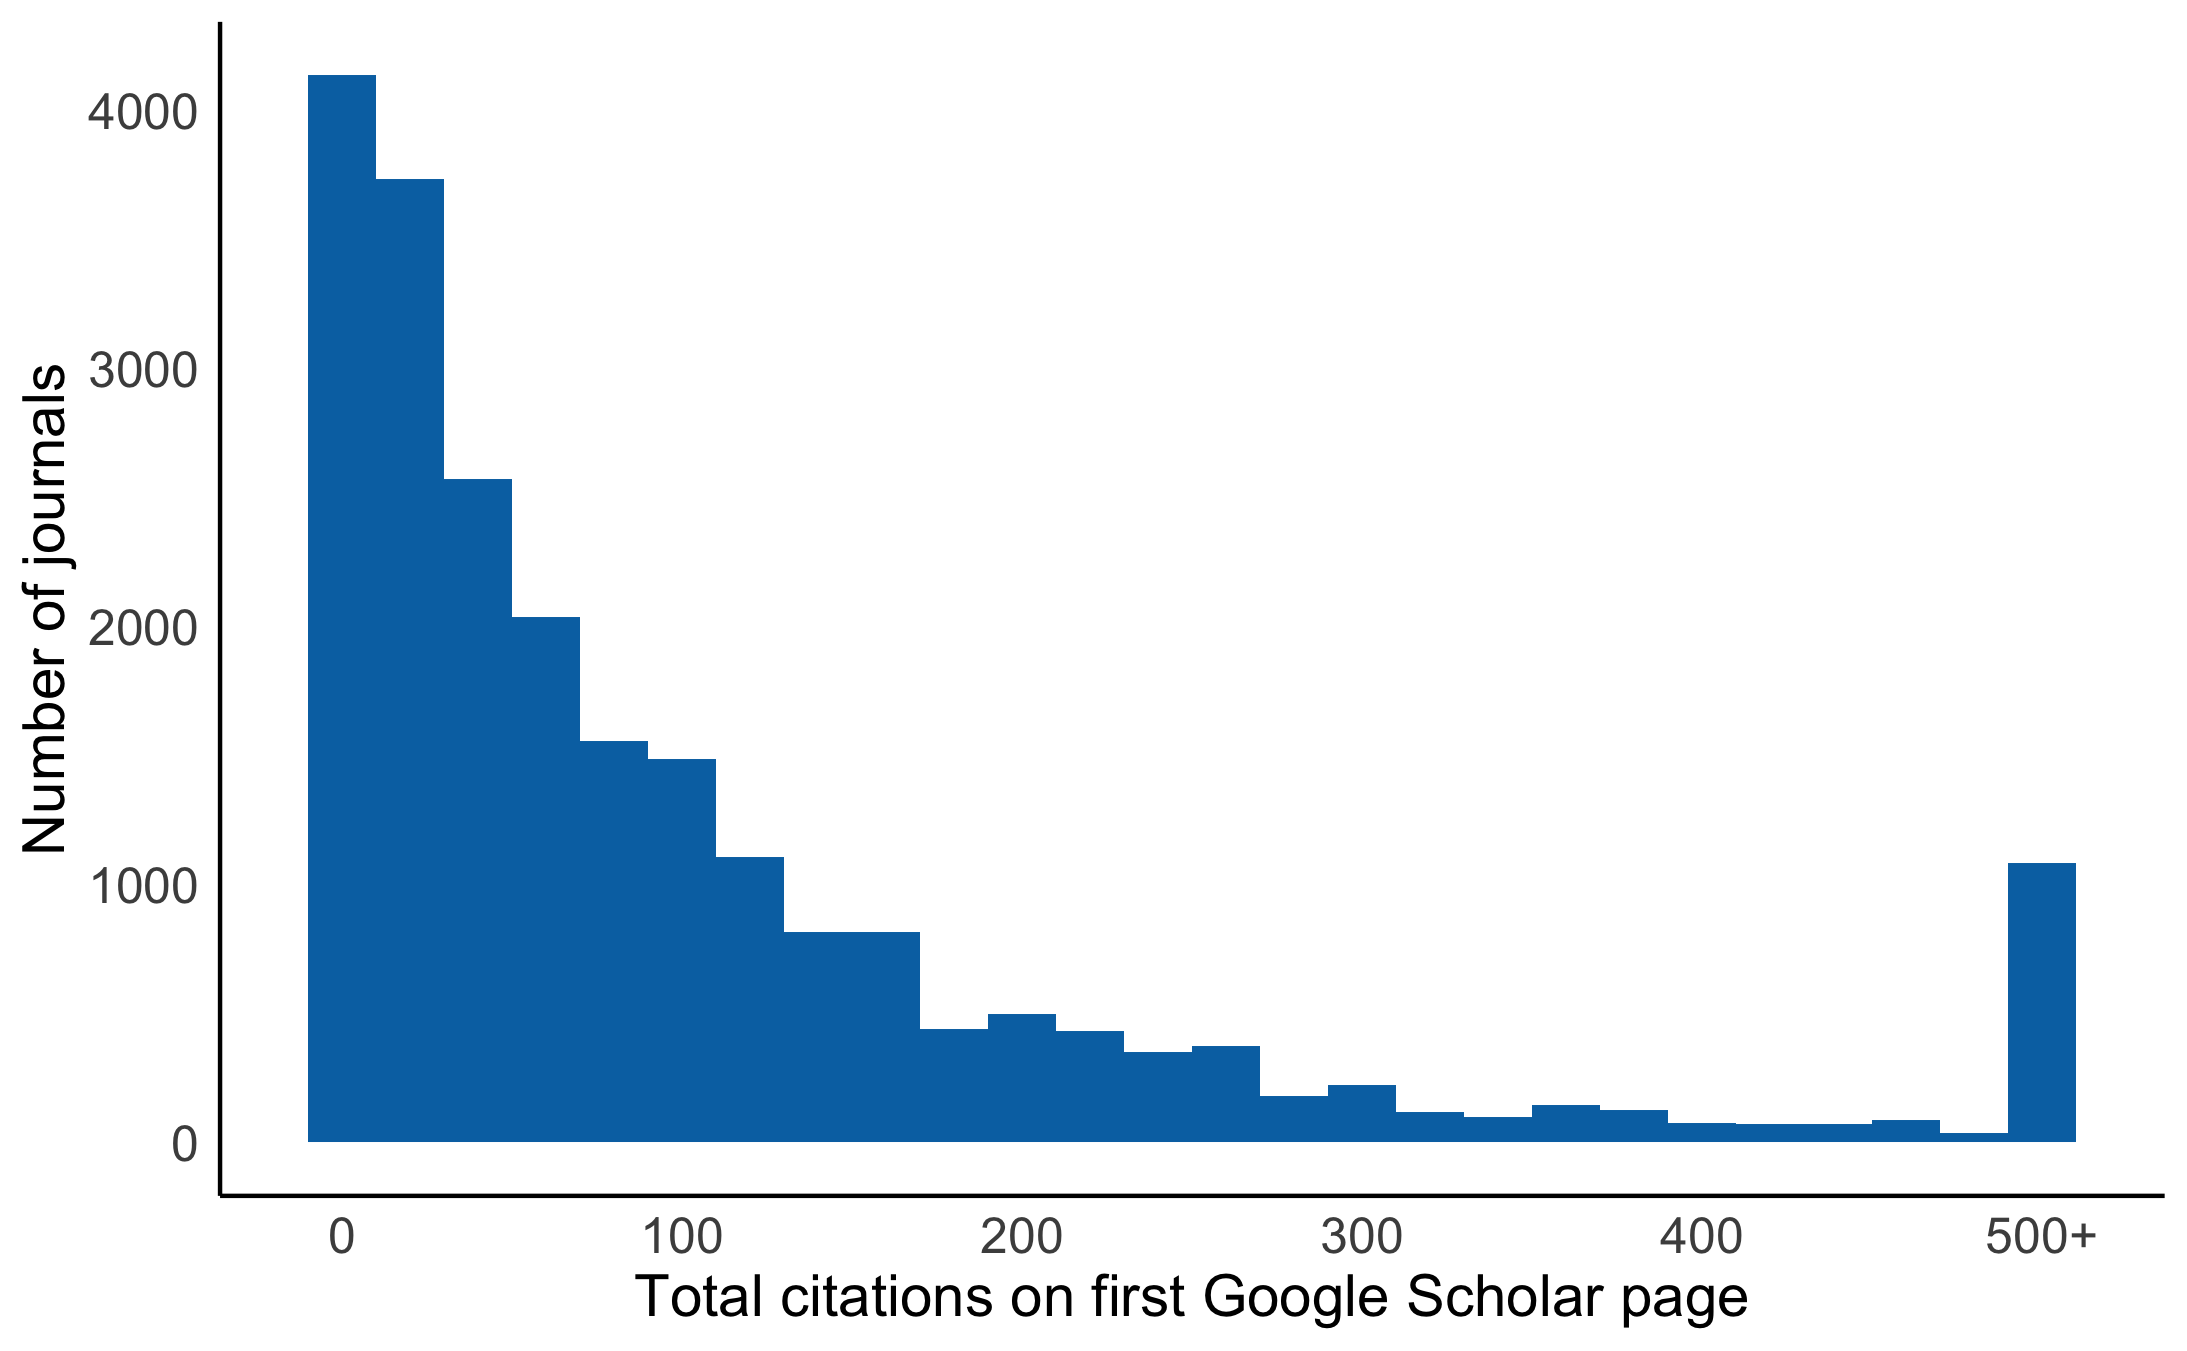
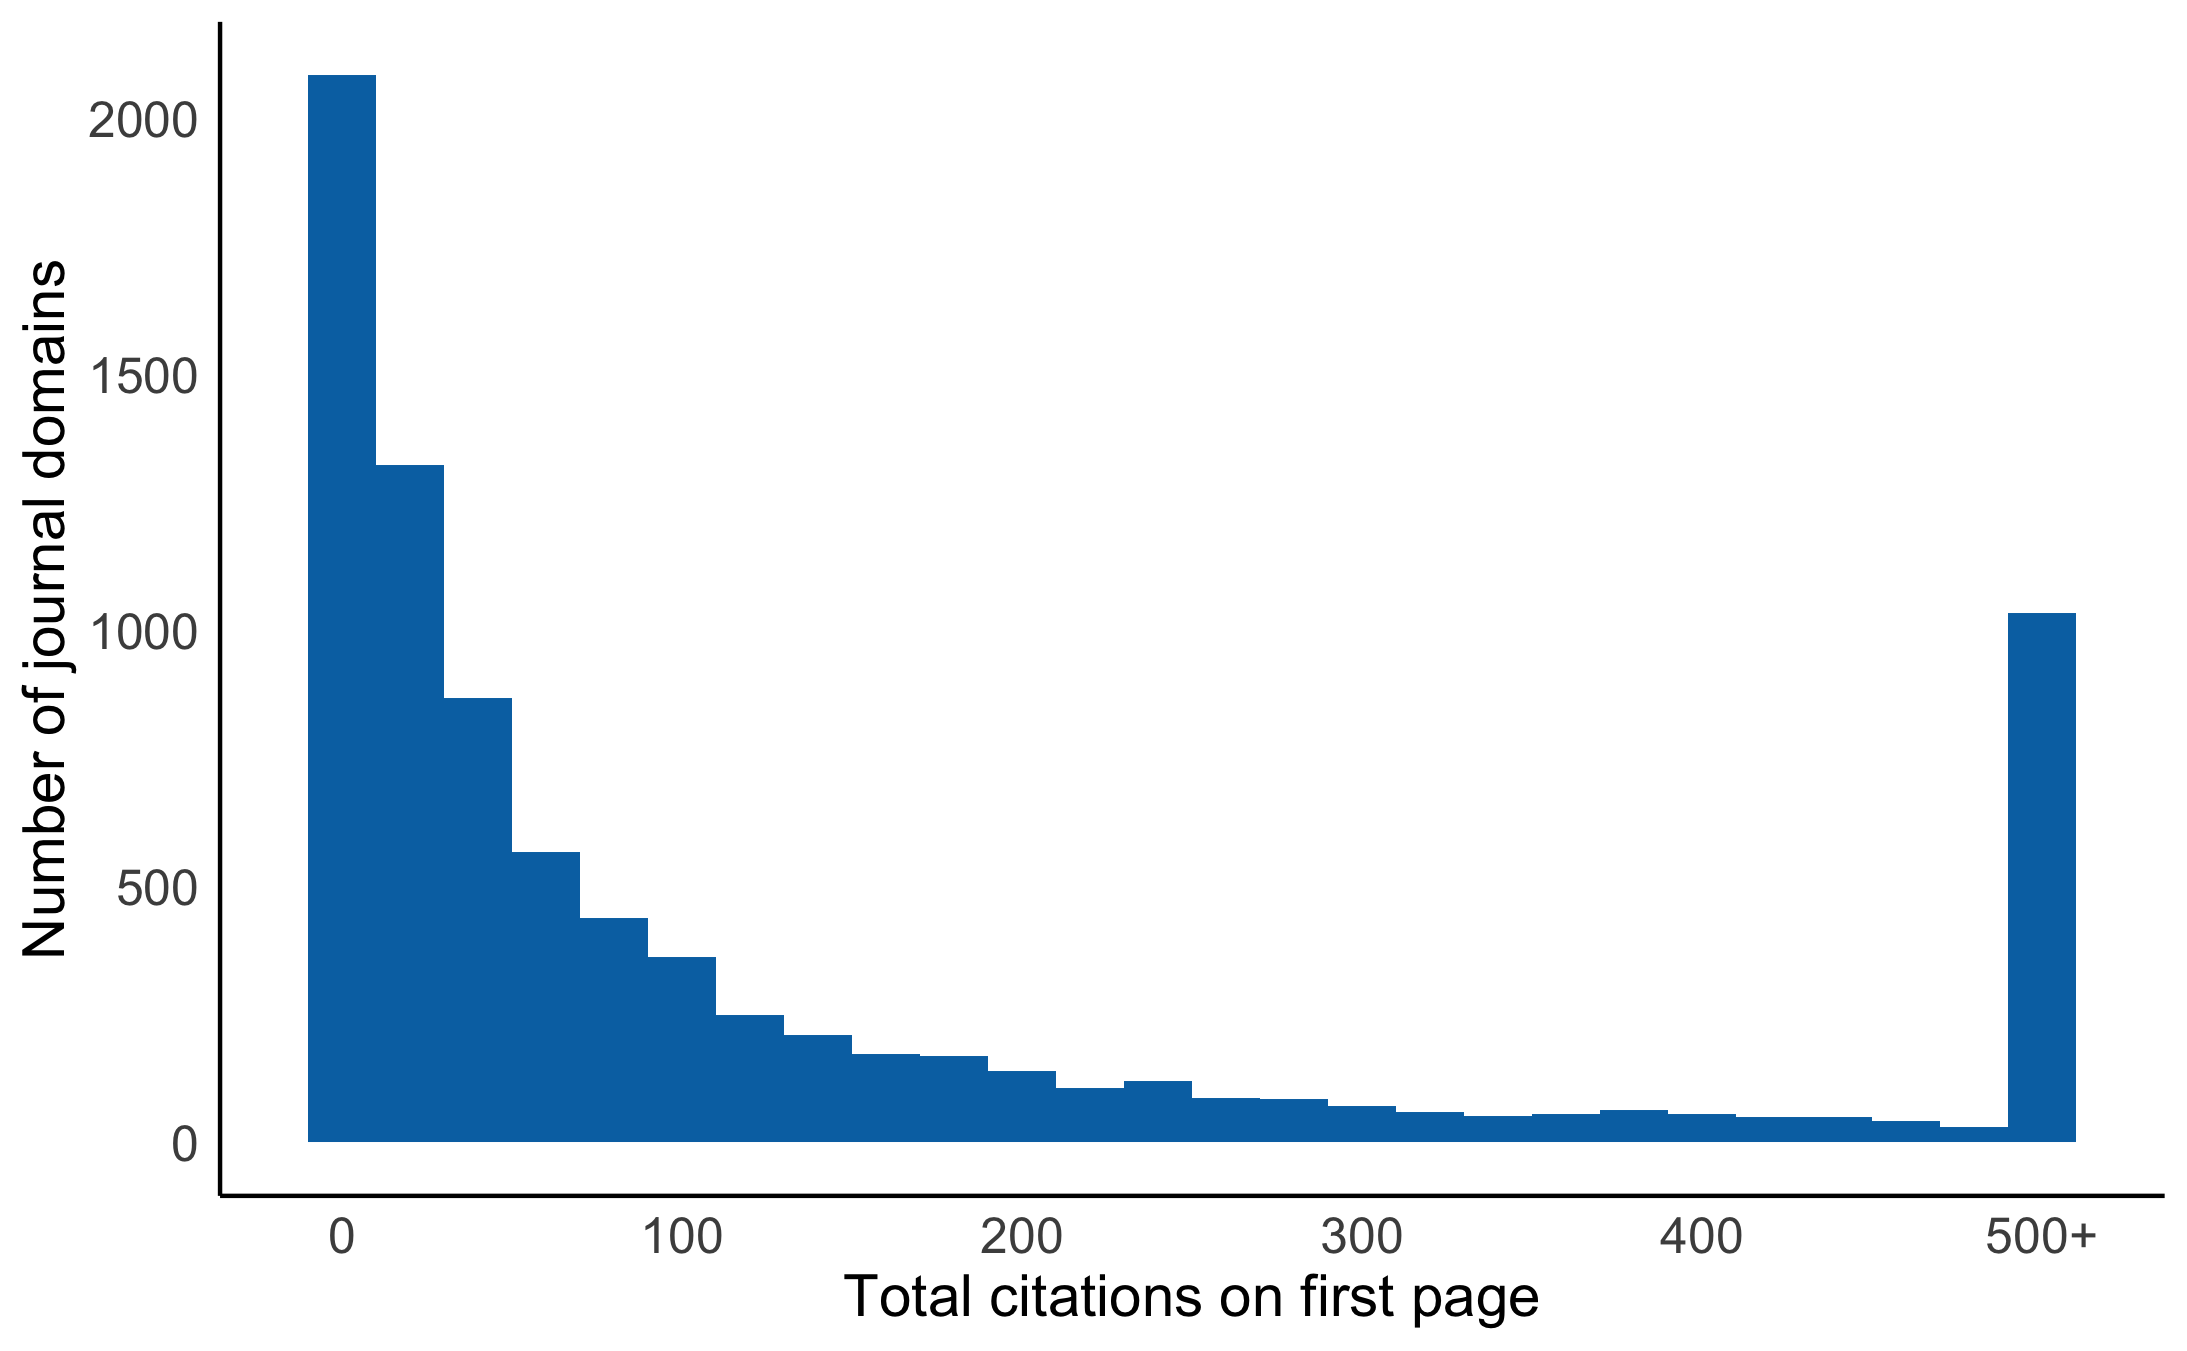
ojs global paper changes

diff --git a/scripts/ojs_global_paper.md b/scripts/ojs_global_paper.md
@@ -1,6 +1,6 @@
 Assessing OJS overlaps with scientometric databases
 ================
-Updated: July 22, 2022
+Updated: July 25, 2022
 
 -   <a href="#cleaning-raw-beacon-data"
     id="toc-cleaning-raw-beacon-data">Cleaning raw beacon data</a>
@@ -546,26 +546,15 @@ Number of citations on first Scholar page:
 
 ``` r
 # number of citations on first gscholar page
-bind_cols(
-    df_gscholar,
-    df_gscholar %>% pull(url) %>% domain() %>% tld_extract()
-  ) %>% 
-  inner_join(domains_in_scholar, by = "domain") %>% 
-  select(domain, url, n_citations) %>% 
-  group_by(domain) %>% 
-  mutate(journals_within_this_domain = n()) %>% 
-  ungroup() %>% 
-  mutate(
-    n_citations_by_journal = round(n_citations/journals_within_this_domain),
-    n_citations_by_journal = pmin(n_citations_by_journal, 500)
-  ) %>%
-  select(url, n_citations_by_journal) %>%
-  ggplot(aes(n_citations_by_journal)) +
+domains_in_scholar %>%
+  mutate(n_citations = pmin(n_citations, 500)) %>% 
+  ggplot(aes(n_citations)) +
   geom_histogram(binwidth = 20, fill = "#0072B2") +
   scale_x_continuous(labels = c("0", "100", "200", "300", "400", "500+")) +
+  hrbrthemes::theme_ipsum() +
   labs(
-    x = "Total citations on first Google Scholar page",
-    y = "Number of journals"
+    x = "Total citations on first page",
+    y = "Number of journal domains"
   ) +
   theme_classic() +
   theme(
@@ -575,95 +564,39 @@ bind_cols(
   )
 ```
 
-![](ojs_global_paper_files/figure-gfm/scholar-citations-1.png)<!-- -->
-
-Journals with no citations on first page:
+<img src="ojs_global_paper_files/figure-gfm/scholar-citations-1.png" width="672" />
 
 ``` r
-# alter threshold to see proportions as needed
-threshold <- 0
-
-bind_cols(
-    df_gscholar,
-    df_gscholar %>% pull(url) %>% domain() %>% tld_extract()
-  ) %>% 
-  inner_join(domains_in_scholar, by = "domain") %>% 
-  select(domain, url, n_citations) %>% 
-  group_by(domain) %>% 
-  mutate(journals_within_this_domain = n()) %>% 
-  ungroup() %>% 
-  mutate(
-    n_citations_by_journal = round(n_citations/journals_within_this_domain),
-  ) %>%
-  count(n_citations_by_journal > threshold)
+# ggsave("scholar_citations.png")
 ```
 
-    ## # A tibble: 2 × 2
-    ##   `n_citations_by_journal > threshold`     n
-    ##   <lgl>                                <int>
-    ## 1 FALSE                                  835
-    ## 2 TRUE                                 21844
+Journals with non-zero citations on first page:
+
+``` r
+# alter threshold to see proportions as needed (e.g. 0, 1000, 10000)
+threshold <- 0
+
+domains_in_scholar %>% arrange(-n_citations) %>% filter(n_citations > threshold) %>% count()
+```
+
+    ## # A tibble: 1 × 1
+    ##       n
+    ##   <int>
+    ## 1  7996
 
 Summary of citations on first page:
 
 ``` r
-bind_cols(
-    df_gscholar,
-    df_gscholar %>% pull(url) %>% domain() %>% tld_extract()
-  ) %>% 
-  inner_join(domains_in_scholar, by = "domain") %>% 
-  select(domain, url, n_citations) %>% 
-  group_by(domain) %>% 
-  mutate(journals_within_this_domain = n()) %>% 
-  ungroup() %>% 
-  transmute(
-    n_citations_by_journal = round(n_citations/journals_within_this_domain),
-  ) %>%
-  summary()
+domains_in_scholar %>% summary()
 ```
 
-    ##  n_citations_by_journal
-    ##  Min.   :    0.0       
-    ##  1st Qu.:   18.0       
-    ##  Median :   59.0       
-    ##  Mean   :  135.2       
-    ##  3rd Qu.:  139.0       
-    ##  Max.   :59728.0
-
-Top 10 cited journals:
-
-``` r
-bind_cols(
-    df_gscholar,
-    df_gscholar %>% pull(url) %>% domain() %>% tld_extract()
-  ) %>% 
-  inner_join(domains_in_scholar, by = "domain") %>% 
-  select(domain, url, country, context_name, n_citations) %>% 
-  group_by(domain) %>% 
-  mutate(journals_within_this_domain = n()) %>% 
-  ungroup() %>% 
-  transmute(
-    context_name,
-    country,
-    n_citations_by_journal = round(n_citations/journals_within_this_domain),
-  ) %>% 
-  arrange(desc(n_citations_by_journal)) %>% 
-  head(10)
-```
-
-    ## # A tibble: 10 × 3
-    ##    context_name                                         country n_citations_by_…
-    ##    <chr>                                                <chr>              <dbl>
-    ##  1 Journal of Statistical Software                      United…            59728
-    ##  2 Proceedings of the AAAI Conference on Artificial In… United…            42328
-    ##  3 Proceedings of the AAAI Conference on Human Computa… United…            42328
-    ##  4 Forum Qualitative Sozialforschung / Forum: Qualitat… Germany            20885
-    ##  5 education policy analysis archives                   United…            19068
-    ##  6 Sophia Journal                                       Portug…            13078
-    ##  7 The Canadian Field-Naturalist                        Canada             12467
-    ##  8 Em Questão                                           Brazil             10748
-    ##  9 Neues Jahrbuch Für Mineralogie                       Germany             9898
-    ## 10 REVISTA FAIPE                                        Brazil              9769
+    ##     domain           n_citations     
+    ##  Length:8548        Min.   :    0.0  
+    ##  Class :character   1st Qu.:   11.0  
+    ##  Mode  :character   Median :   50.0  
+    ##                     Mean   :  358.8  
+    ##                     3rd Qu.:  185.0  
+    ##                     Max.   :84656.0
 
 ### Latindex
 
@@ -744,7 +677,7 @@ bind_rows(df_join_a, df_join_b) %>%
   )
 ```
 
-![](ojs_global_paper_files/figure-gfm/unnamed-chunk-25-1.png)<!-- -->
+![](ojs_global_paper_files/figure-gfm/unnamed-chunk-24-1.png)<!-- -->
 
 Latin American countries for JUOJS:
 
